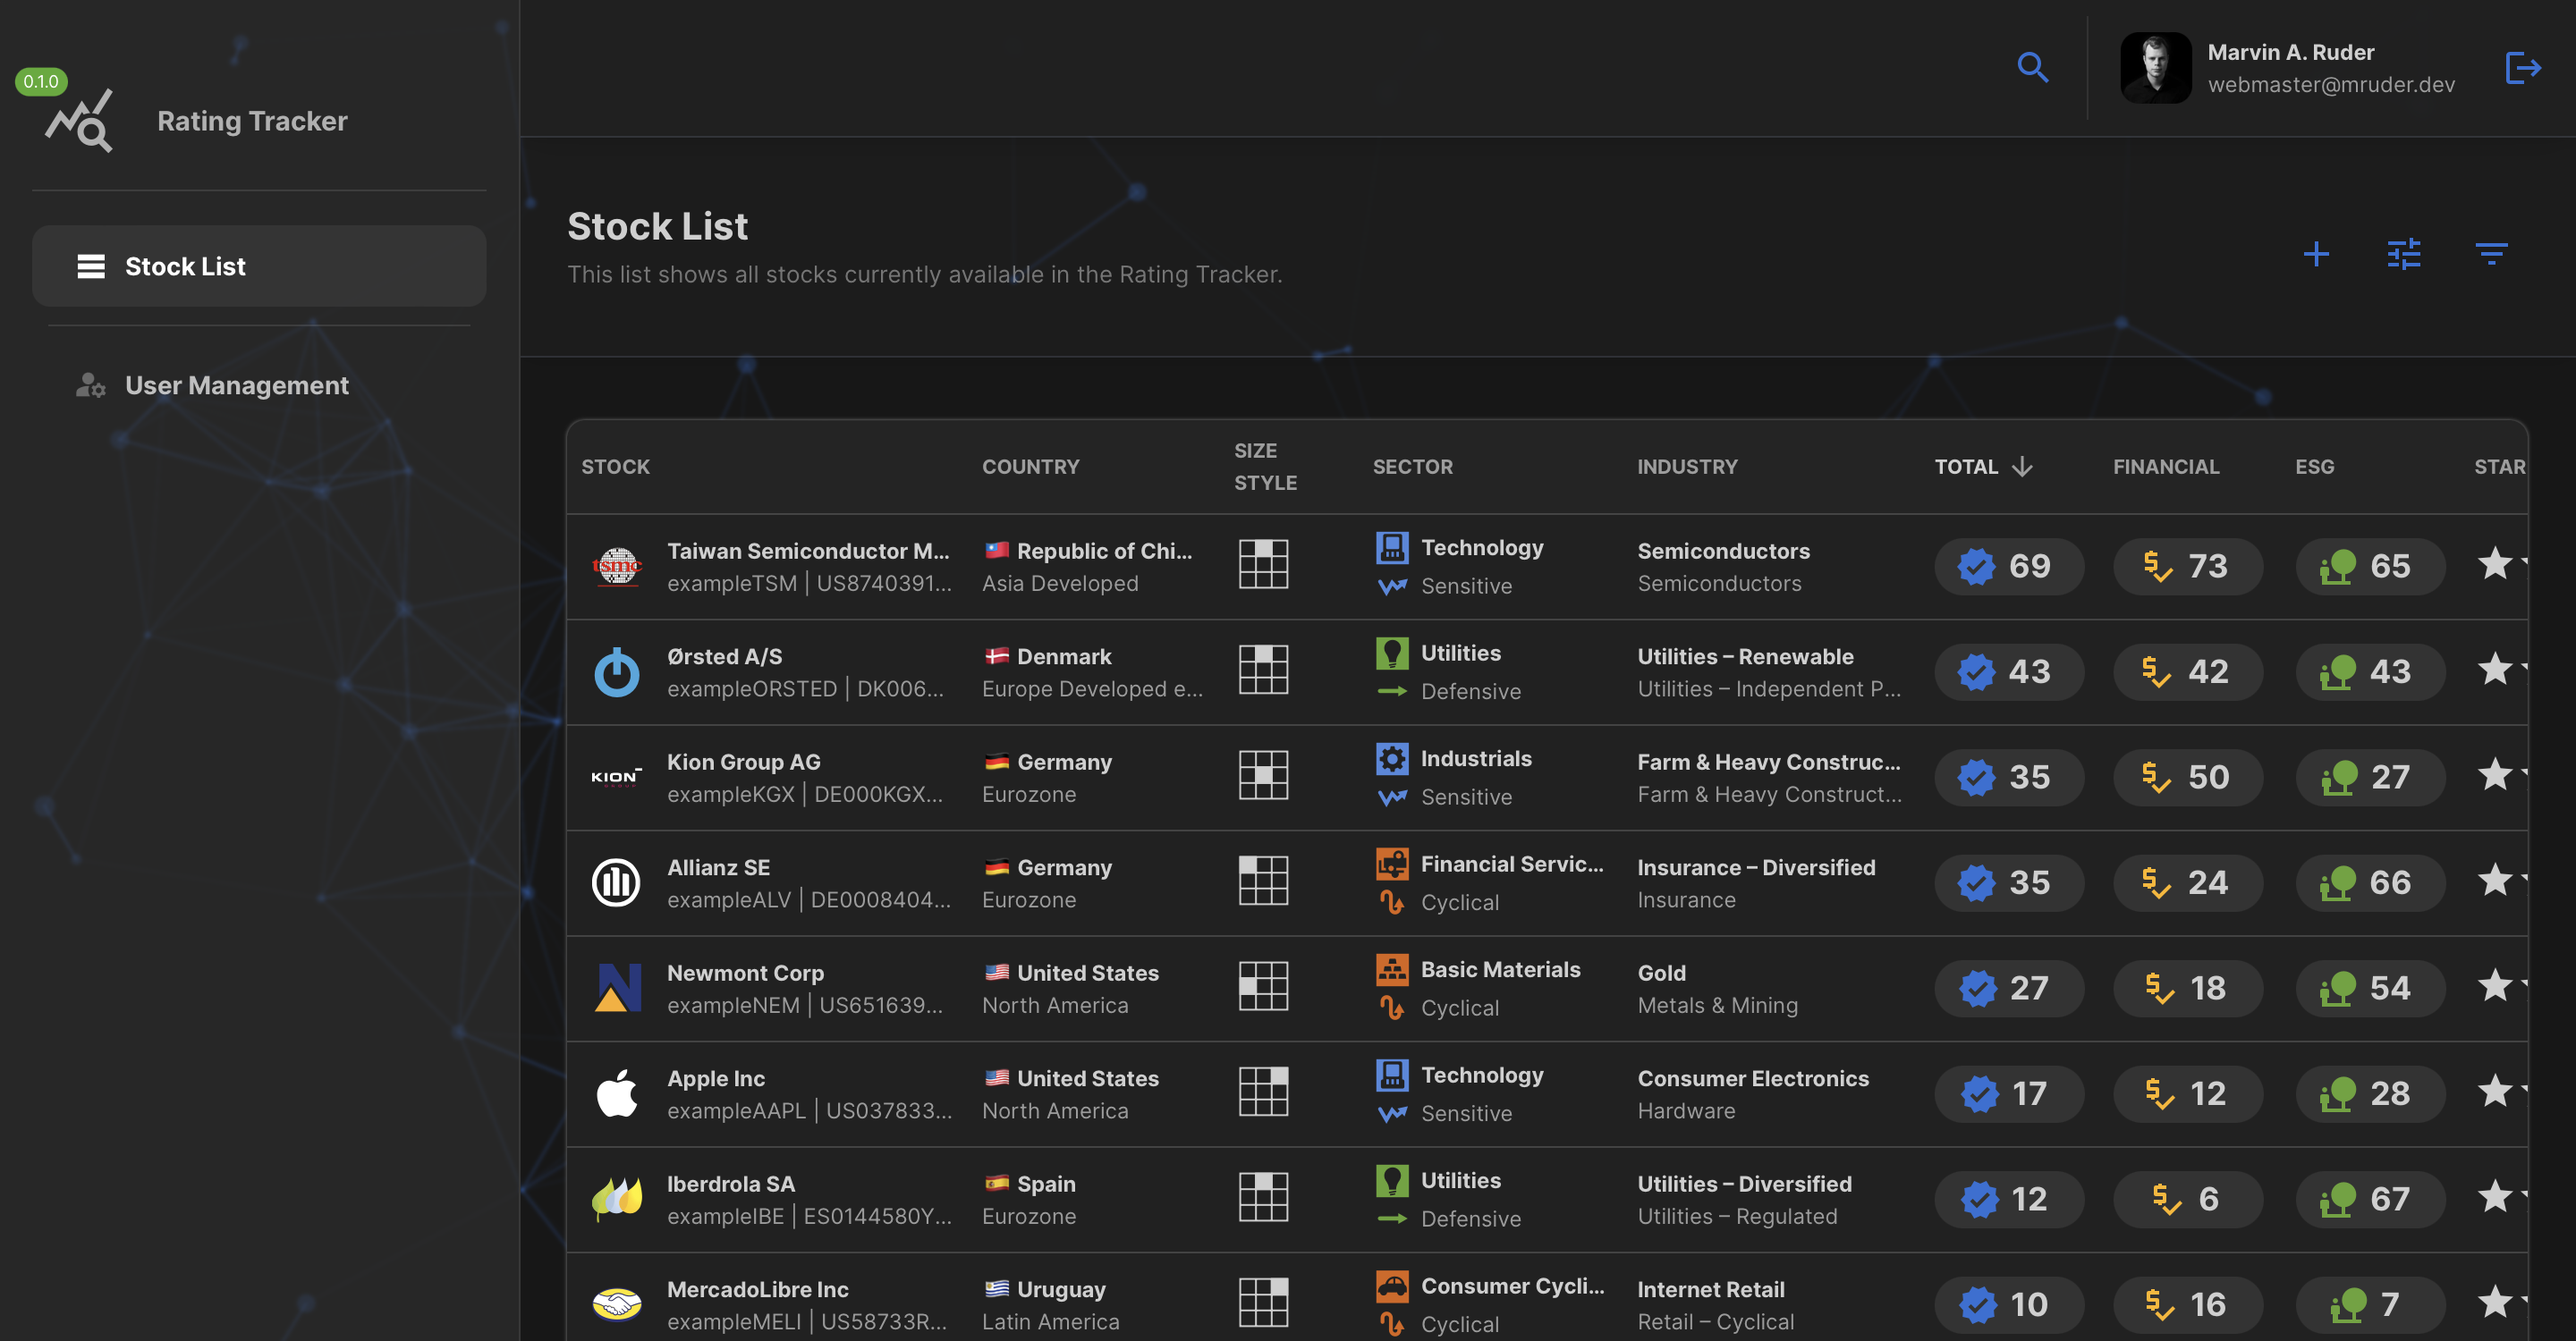
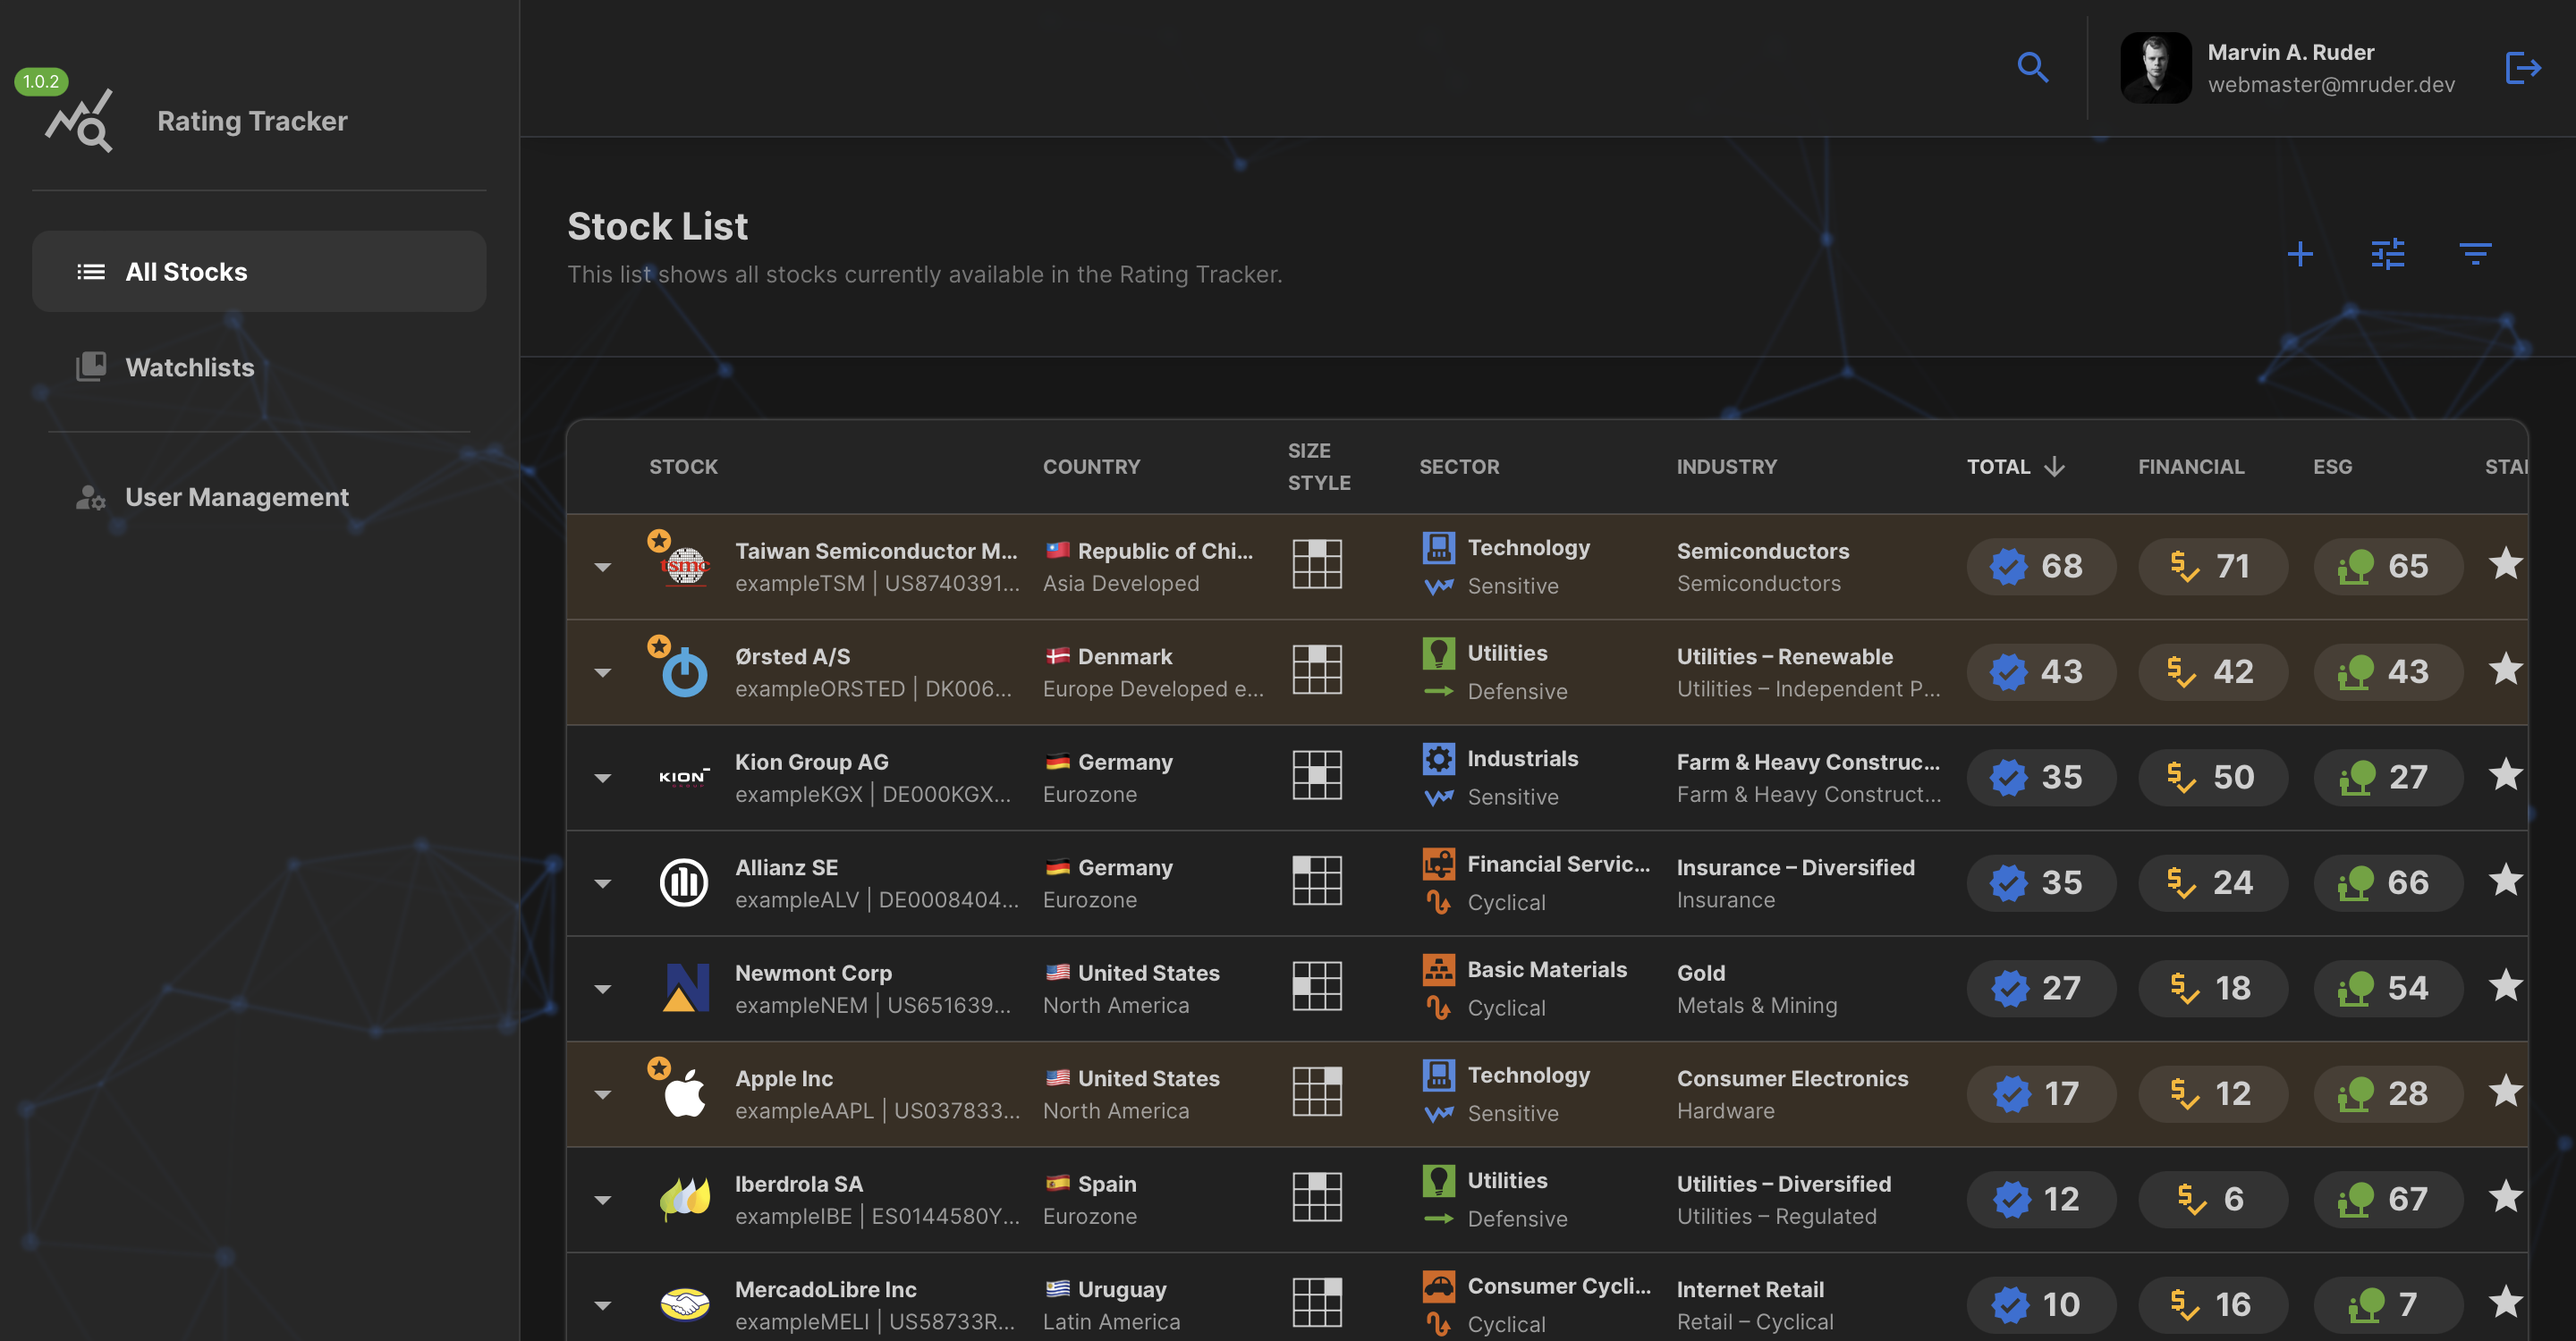
Update documentation

diff --git a/packages/commons/src/lib/MessageType.ts b/packages/commons/src/lib/MessageType.ts
@@ -41,7 +41,7 @@ export const subscriptionOfMessageType: Record<MessageType, number> = {
 export const messageTypeName: Record<MessageType, string> = {
   userManagement: "User Management",
   fetchError: "Fetch Errors",
-  stockUpdate: "Stock Updates",
+  stockUpdate: "All Stock Updates",
 };
 
 /**
@@ -50,7 +50,7 @@ export const messageTypeName: Record<MessageType, string> = {
 export const messageTypeDescription: Record<MessageType, string> = {
   userManagement: "Receive a message when a new user signs up for the service.",
   fetchError: "Receive a message when fetching information about a stock fails.",
-  stockUpdate: "Receive a message when a stock’s information is updated.",
+  stockUpdate: "Receive a message when any stock’s rating information is updated.",
 };
 
 /**

diff --git a/packages/frontend/src/layouts/SidebarLayout/Header/Userbox/index.tsx b/packages/frontend/src/layouts/SidebarLayout/Header/Userbox/index.tsx
@@ -40,7 +40,7 @@ const HeaderUserbox = (): JSX.Element => {
       setNotification({
         severity: "success",
         title: "See you next time!",
-        message: "Signing out successful",
+        message: "Signed out successfully",
       });
       navigate("/login");
     } catch (e) {

diff --git a/README.md b/README.md
@@ -51,6 +51,18 @@ The fetched ratings of a stock are aggregated to both a financial and ESG score 
 
 The financial and ESG score are used to compute a total score using the harmonic mean of both numbers, so that a stock has to perform well in both financial and ESG ratings to obtain a good total score.
 
+#### Watchlists
+
+Stocks noteworthy to a user can be organized in watchlists. A dedicated Favorites watchlist is provided by default and can easily be maintained by clicking the star icon for a stock. 
+
+Users can subscribe to a watchlist, so they receive [notifications](#notification-messages-via-signal) when a stock’s rating is updated.
+
+<picture>
+  <source media="(prefers-color-scheme: dark)" srcset="/docs/images/watchlists-dark.png">
+  <source media="(prefers-color-scheme: light)" srcset="/docs/images/watchlists-light.png">
+  <img alt="Rating Tracker Watchlists" src="/docs/images/watchlists-light.png">
+</picture>
+
 #### User Management
 
 The Rating Tracker supports multiple users, who can self-register via WebAuthn and access the application after being granted fine-grained access by an administrator, for whom a “User Management” web interface is provided.
@@ -60,6 +72,8 @@ The Rating Tracker supports multiple users, who can self-register via WebAuthn a
   <source media="(prefers-color-scheme: light)" srcset="/docs/images/usermanagement-light.png">
   <img alt="Rating Tracker User Management" src="/docs/images/usermanagement-light.png">
 </picture>
+
+<!-- <div id="notification-messages-via-signal"></div> -->
 
 #### Notification Messages via Signal
 
